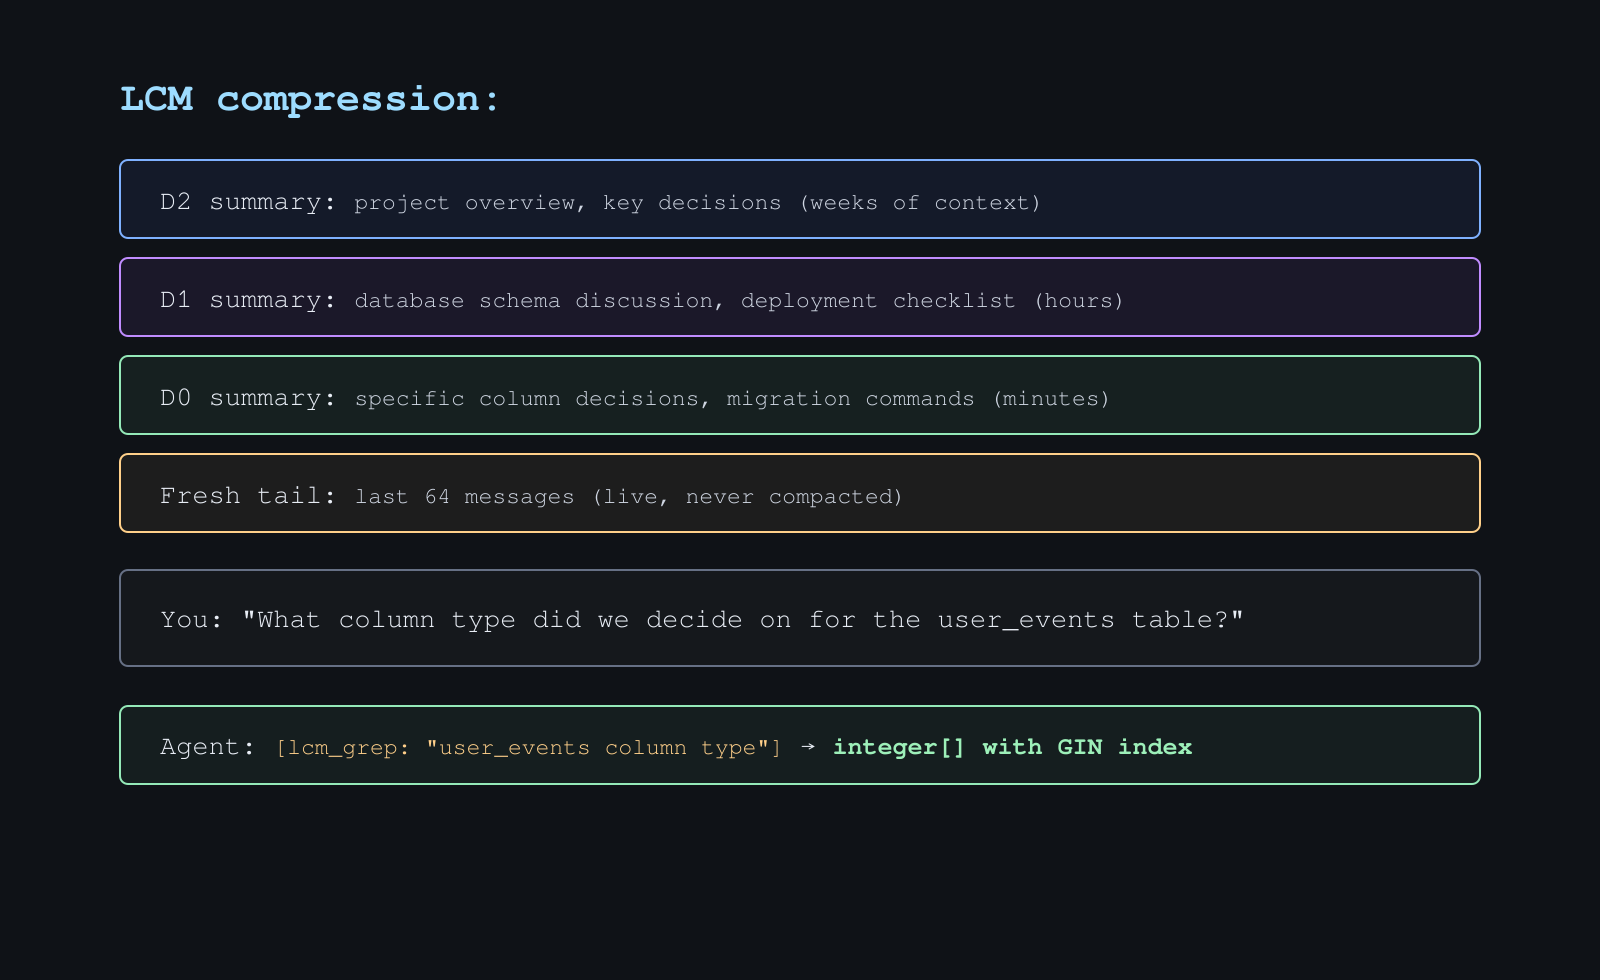
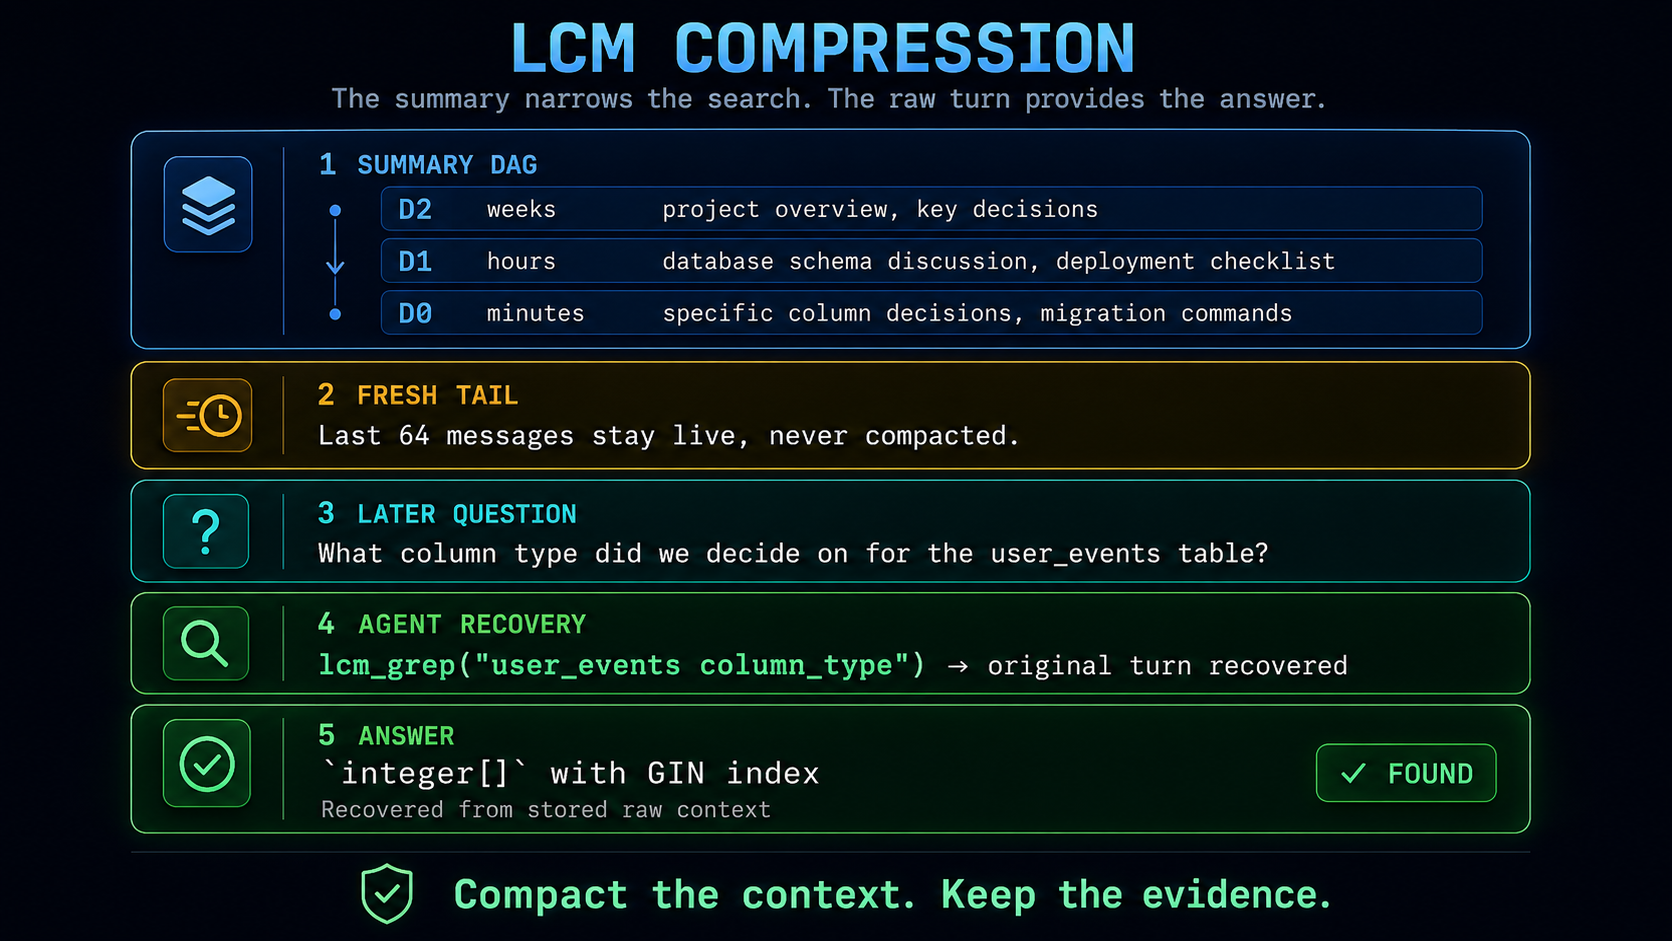
docs: update README media assets

diff --git a/README.md b/README.md
@@ -1,5 +1,5 @@
 <p align="center">
-  <img src="banner.png" alt="HERMES-LCM" width="800">
+  <img src="docs/banner.png" alt="HERMES-LCM" width="800">
 </p>
 
 [![CI](https://github.com/stephenschoettler/hermes-lcm/actions/workflows/ci.yml/badge.svg)](https://github.com/stephenschoettler/hermes-lcm/actions/workflows/ci.yml)
@@ -9,11 +9,6 @@
 
 > Bounded context, unbounded memory. Nothing is ever lost.
 
-## Demo
-
-[Watch/download the short Hermes-LCM explainer](https://github.com/stephenschoettler/hermes-lcm/raw/main/docs/hermes-lcm-demo.mp4).
-
-A short explainer showing how Hermes-LCM persists sessions, compacts older turns into a summary DAG, and keeps exact details recoverable with tools like `lcm_grep`, `lcm_expand_query`, and `lcm_doctor`.
 
 Based on the [LCM paper](https://papers.voltropy.com/LCM) by Ehrlich & Blackman (Voltropy PBC, Feb 2026).
 Inspired by [lossless-claw](https://github.com/martian-engineering/lossless-claw) for OpenClaw.